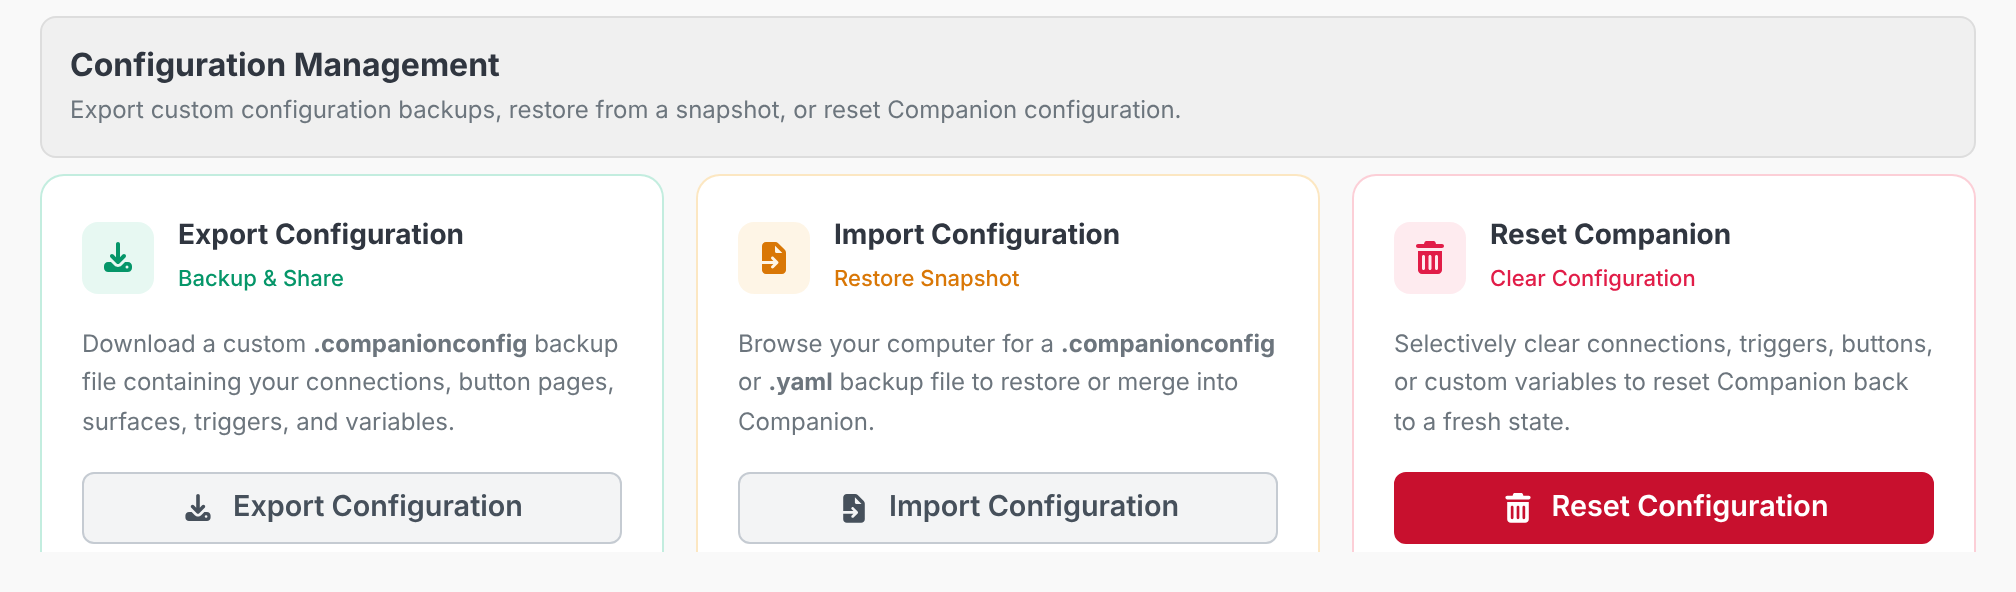
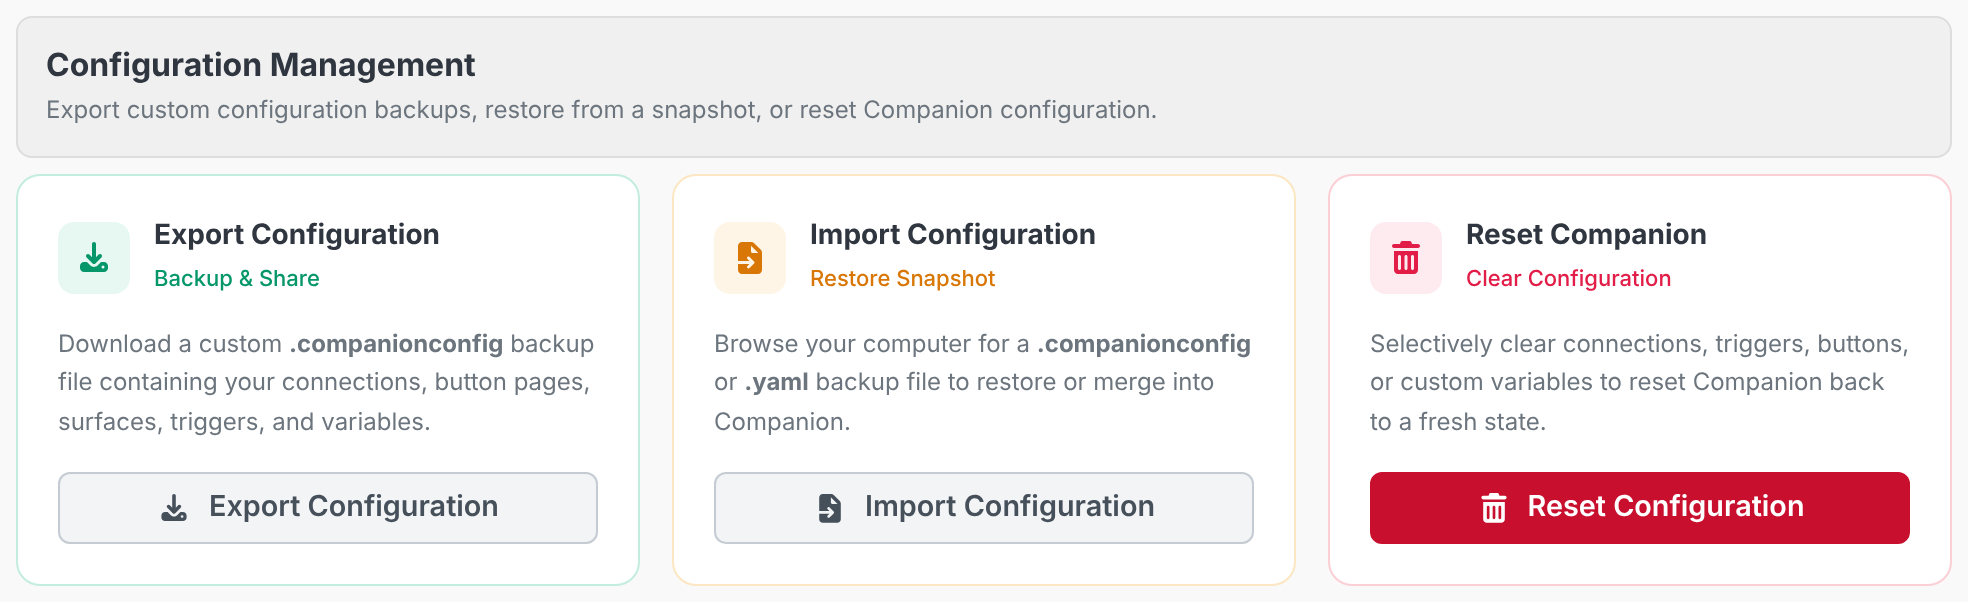
docs: show the whole of the boxes in the import and export screenshots
Their boxes have more space below their content than was left, so their bottom
borders were cut off, and the import page's last box didn't fit the window.
They are cropped to the column of boxes instead, in a window tall enough for
all of them.

Claude-Session: https://claude.ai/code/session_01Vb3J9xjxFGGeH5r4UKVetu

diff --git a/e2e/docs-screenshots/interface.shots.ts b/e2e/docs-screenshots/interface.shots.ts
@@ -1,4 +1,5 @@
 import path from 'node:path'
+import type { Page } from '@playwright/test'
 import { expect, gotoApp, test } from '../support/fixtures.js'
 import { clickWithCursor, shoot, shootPanel, unionClip, withViewport } from './shoot.js'
 
@@ -62,10 +63,20 @@ test('protocols', async ({ page }) => {
 	await shootPanel(page.locator('.secondary-panel'), '3_config/system/images/settings-prometheus', false)
 })
 
+/** The content of a page laid out as a column of boxes, with some of the page around them */
+async function pageContentClip(page: Page) {
+	const boxes = page.locator('.page-container .page-scroll > *')
+	// With anything above the column, such as the import page's cancel button
+	const above = page.locator('.page-container .page-shell > :not(.page-scroll)')
+	const top = (await above.count()) > 0 ? [above.first()] : []
+	return unionClip(page, [...top, boxes.first(), boxes.last()])
+}
+
 test('import and export', async ({ page }) => {
-	await page.setViewportSize({ width: 1280, height: 1000 })
+	// Tall enough for all of the import page's boxes
+	await page.setViewportSize({ width: 1280, height: 1800 })
 	await gotoApp(page, '/import-export')
-	await shootPanel(page.locator('.page-container'), '3_config/system/images/import-export', true)
+	await shoot(page, await pageContentClip(page), '3_config/system/images/import-export')
 
 	// Import one of the templates of the docs
 	const template = path.join(
@@ -74,5 +85,5 @@ test('import and export', async ({ page }) => {
 	)
 	await page.locator('input[type=file]').first().setInputFiles(template)
 	await expect(page.getByRole('button', { name: 'Import (Preserve Unselected)' })).toBeVisible()
-	await shootPanel(page.locator('.page-container'), '3_config/system/images/import', true)
+	await shoot(page, await pageContentClip(page), '3_config/system/images/import')
 })
